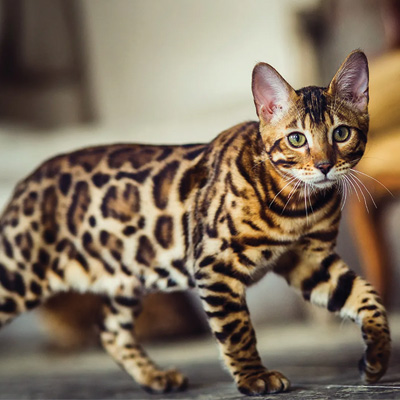
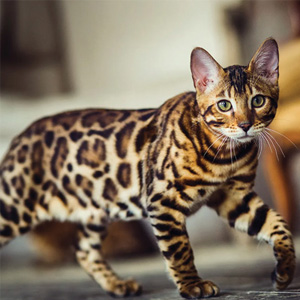
adding optimized phtos

diff --git a/main.js b/main.js
@@ -80,7 +80,7 @@ const zodiac_signs = ['Capricorn', 'Taurus', 'Gemini', 'Cancer',
       end_month: 10,
       end_day: 22,
       zodiac_catbreed: 'Ragdoll',
-      zodiac_sound: 'audio/.libra.mp3',
+      zodiac_sound: 'audio/libra.mp3',
       zodiac_image: 'images/libra.jpg',
       zodiac_text_description:'Charming, social-butterfly peacemakers who adore beauty, balance, and harmony.',
     },
@@ -218,6 +218,17 @@ function get_image(month_get, date_get){
   return null;
 };  
 
+function get_sound(month_get, date_get){
+  for (const zodiac_profile of zodiac_profiles){
+    const start_m_d = (month_get === zodiac_profile.start_month && date_get >= zodiac_profile.start_day);
+    const end_m_d = (month_get === zodiac_profile.end_month && date_get <= zodiac_profile.end_day);
+      if (start_m_d || end_m_d){
+        return zodiac_profile.zodiac_sound;
+      }
+  }
+  return null;
+};  
+
 /*AI was used to help combine image display for both buttons and get audio to connect to the show results*/
 let current_audio = null;
 
@@ -226,17 +237,6 @@ function stop_all_sounds() {
     current_audio.pause();
     current_audio.currentTime = 0;
   }
-}
-
-
-
-function show_result(profile) {
-  if (!profile) return;
-  output.textContent = `Your zodiac sign is ${profile.zodiac_name} and your cat breed is ${profile.zodiac_catbreed}. Personality: ${profile.zodiac_text_description}`;
-  img_element.src = profile.zodiac_image;
-  img_element.alt = `${profile.zodiac_catbreed} cat`;
-  
-  play_zodiac_sound(profile.zodiac_sound);
 }
 
 const output = document.querySelector('#output');
@@ -254,14 +254,14 @@ button.addEventListener('click', function(){
   const zodiac_catbreed = get_catbreed(month_get, date_get);
   const zodiac_text_description = get_description(month_get, date_get);
   const zodiac_img = get_image(month_get, date_get);
+  const zodiac_sound = get_sound(month_get, date_get); 
   output.textContent = `Your zodiac sign is ${zodiac_sign} and your cat breed is ${zodiac_catbreed}. Personality: ${zodiac_text_description}`;
-
   img_element.src = zodiac_img;
   img_element.alt = `${zodiac_catbreed} cat`;
+if (zodiac_sound) {
+    play_zodiac_sound(zodiac_sound);
+  }
 });
-
-
-
 
 zodiac_profiles.forEach(profile => {
   const btn = document.createElement('button');
@@ -269,54 +269,48 @@ zodiac_profiles.forEach(profile => {
   
   btn.addEventListener('click', () => {
     show_result(profile);
+
   });
 
   buttons_container.appendChild(btn);
 });
 
+function show_result(profile) {
+  output.textContent = `Your zodiac sign is ${profile.zodiac_name} and your cat breed is ${profile.zodiac_catbreed}. 
+  Personality: ${profile.zodiac_text_description}`;
+  img_element.src = profile.zodiac_image;
+  img_element.alt = `${profile.zodiac_catbreed} cat`;
+  
+  play_zodiac_sound(profile.zodiac_sound);
+}
+
 const all_sounds = [];
 for (const zodiac_sign of zodiac_signs){ 
   const audio = new Audio(zodiac_profiles.zodiac_sound)
-
   zodiac_profiles.zodiac_sound = audio;
-  all_sounds.push(audio);
 }
-const audio_files = [];
-const play_button = document.querySelector('#play');
-const pause_button = document.querySelector('#pause');
 
 
+// function stop_all_sounds(){
+//   for (const audio of all_sounds)
+//   {
+//     audio.pause();
+//     audio.currentTime = 0;
+//   }
+// }; 
 
-const audio= new Audio('audio/aquarius.mp3');
-
-
-
-function stop_all_sounds(){
-  for (const audio of all_sounds)
-  {
-    audio.pause();
-    audio.currentTime = 0;
+function stop_all_sounds() {
+  if (current_audio) {
+    current_audio.pause();
+    current_audio.currentTime = 0;
   }
-}; 
+}
 
 function play_zodiac_sound(sound_path) {
   stop_all_sounds();
-  if (!sound_path) return;
   current_audio = new Audio(sound_path);
   current_audio.play();
 }
-
-play_button.addEventListener ('click', () => {
-  stop_all_sounds();
-  audio.play();
-});
-
-pause_button.addEventListener ('click', () => {
-  stop_all_sounds();
-  audio.play()
-});
-
-
 
 console.log(zodiac_signs);
  console.log(get_zodiac_sign(11, 21));

diff --git a/index.html b/index.html
@@ -35,10 +35,7 @@
 </section>
  <img id="zodiac-img" src="" alt="" >
  
-  <section class="audio-button">
-<button id="play">Play Sound</button>
-<button id="pause">Pause Sound</button>
-</section>
+
 
 
 

diff --git a/style.css b/style.css
@@ -70,3 +70,6 @@ button {
 }
 
 
+p{
+    max-width: 30ch;
+}
